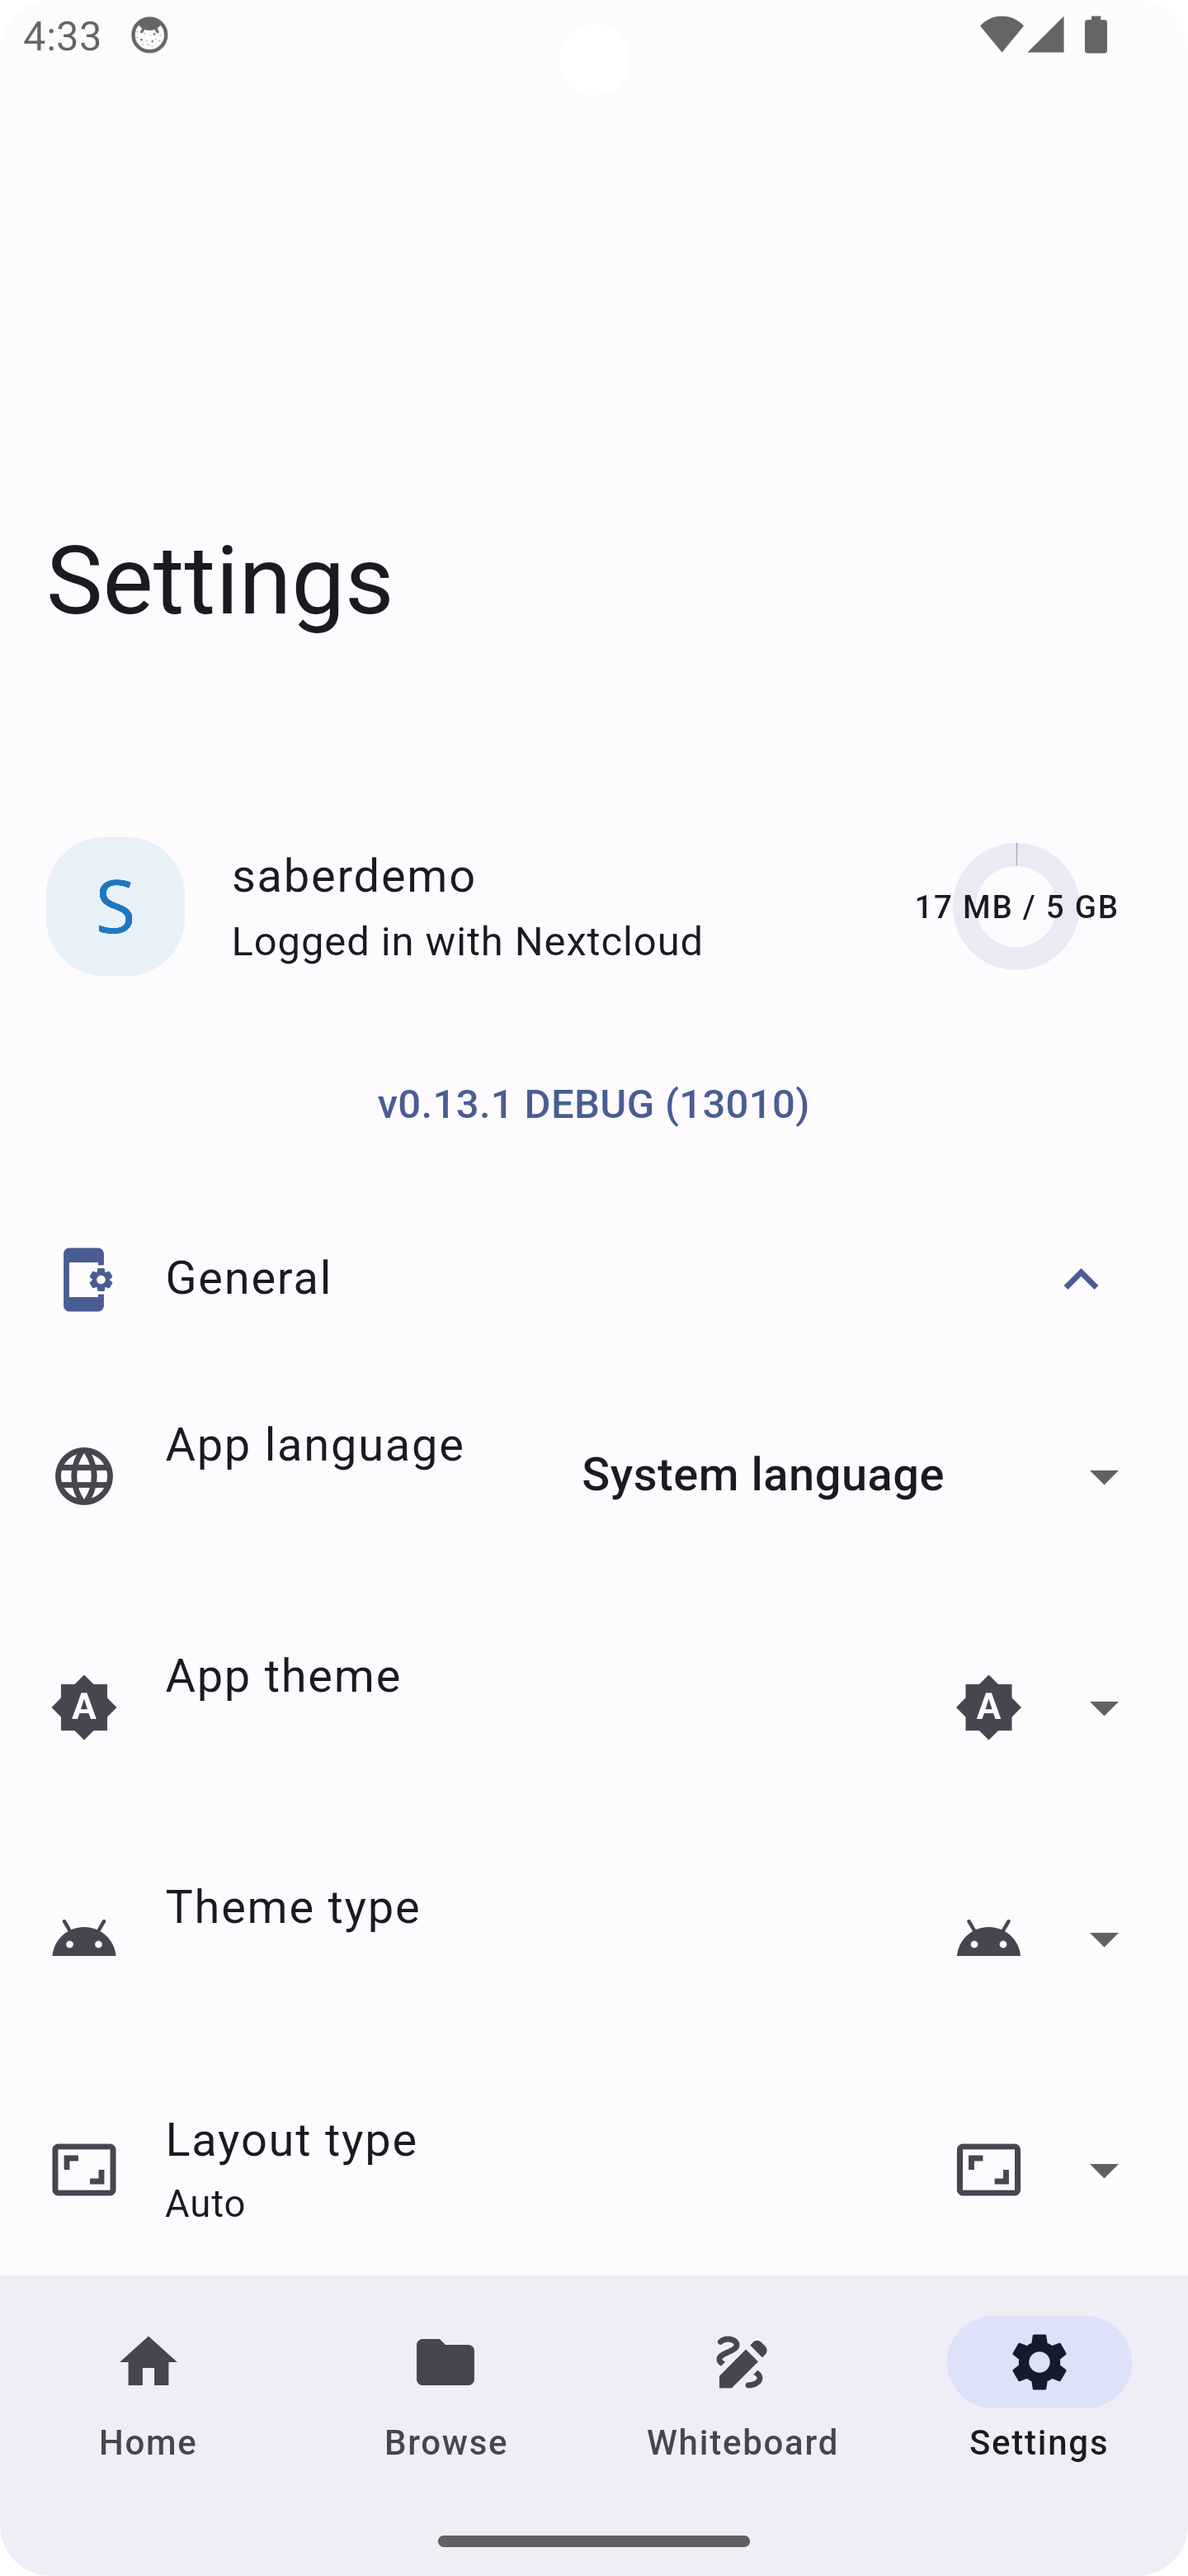
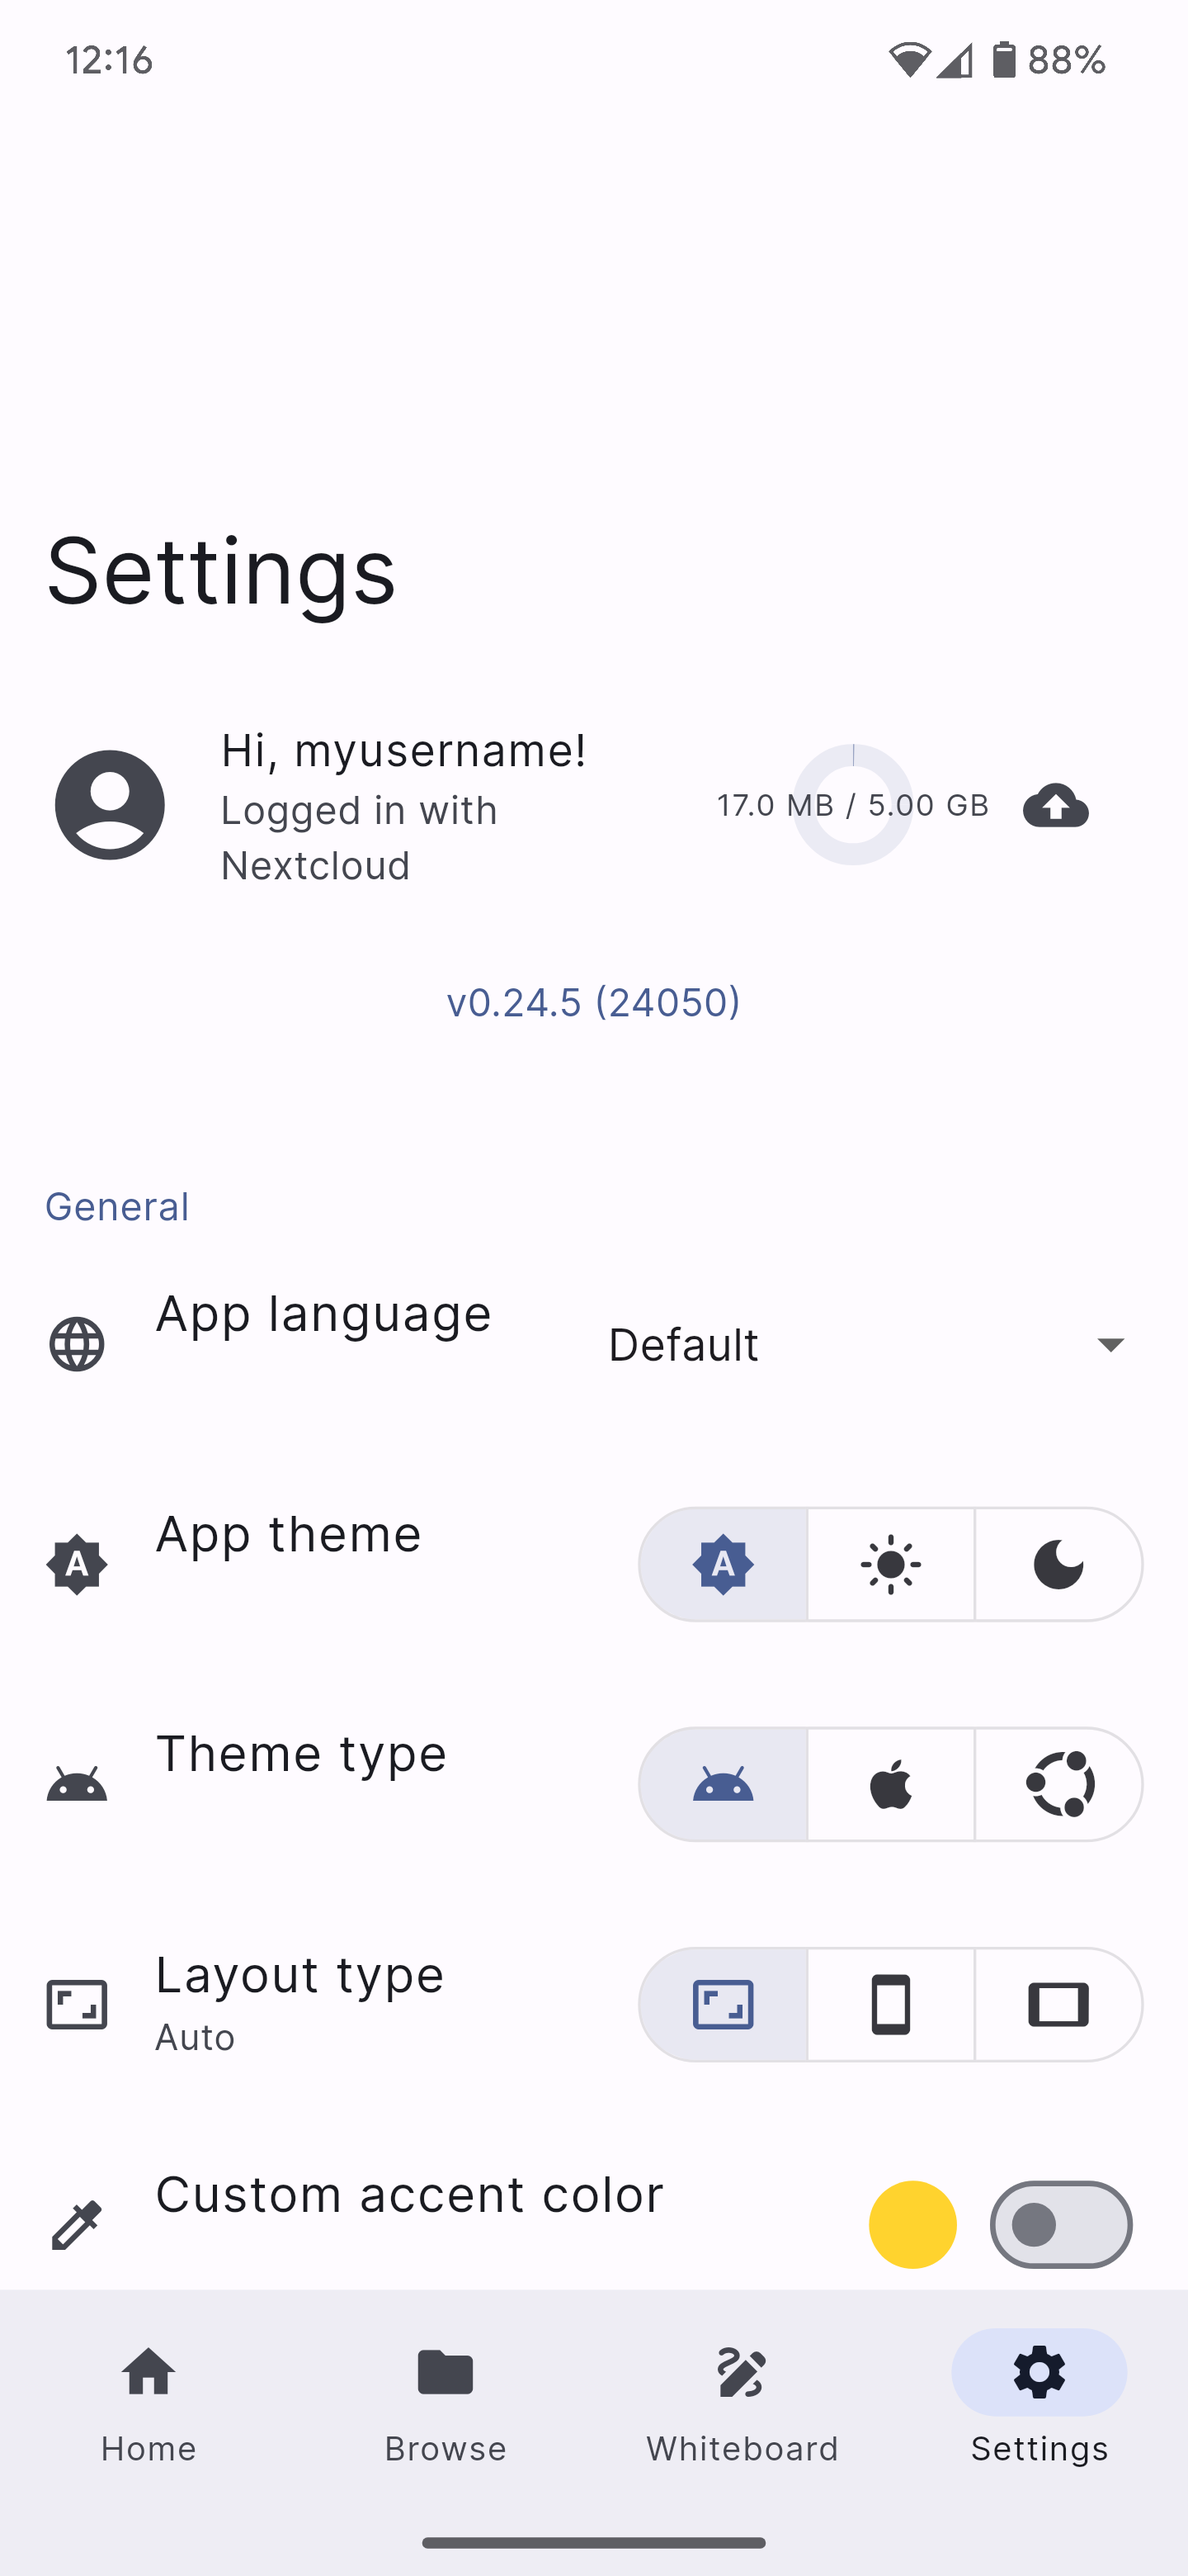
chore: automate settings screenshots

diff --git a/test/screenshot_goldens_test.dart b/test/screenshot_goldens_test.dart
@@ -10,10 +10,12 @@ import 'package:saber/components/canvas/pencil_shader.dart';
 import 'package:saber/components/canvas/shader_image.dart';
 import 'package:saber/components/home/banner_ad_widget.dart';
 import 'package:saber/components/home/syncing_button.dart';
+import 'package:saber/components/settings/app_info.dart';
+import 'package:saber/components/settings/nextcloud_profile.dart';
 import 'package:saber/components/theming/yaru_builder.dart';
 import 'package:saber/data/file_manager/file_manager.dart';
 import 'package:saber/data/flavor_config.dart';
-import 'package:saber/data/prefs.dart';
+import 'package:saber/data/prefs.dart' hide Quota;
 import 'package:saber/i18n/strings.g.dart';
 import 'package:saber/pages/editor/editor.dart';
 import 'package:saber/pages/home/home.dart';
@@ -37,6 +39,19 @@ void main() {
     Prefs.init();
     AdState.init();
     SyncingButton.forceButtonActive = true;
+    AppInfo.showDebugMessage = false;
+
+    Prefs.username.value = 'myusername';
+
+    const quotaUsed = 17 * 1024 * 1024; // 17 MB
+    const quotaTotal = 5 * 1024 * 1024 * 1024; // 5 GB
+    Prefs.lastStorageQuota.value = Quota.fromJson({
+      'free': quotaTotal - quotaUsed,
+      'used': quotaUsed,
+      'total': quotaTotal,
+      'relative': quotaUsed / quotaTotal * 100,
+      'quota': quotaTotal,
+    });
 
     setUpAll(() => Future.wait([
           FileManager.init(),
@@ -105,6 +120,13 @@ void main() {
         forceAppBarLeading: true,
       ),
     );
+    _screenshot(
+      frameColors: homeFrameColors,
+      materialTheme: materialTheme,
+      yaruTheme: yaruTheme,
+      goldenFileName: 'settings',
+      child: const HomePage(subpage: HomePage.settingsSubpage, path: ''),
+    );
   });
 }
 
@@ -119,6 +141,11 @@ void _screenshot({
     for (final device in ScreenshotDevice.values) {
       testWidgets('for ${device.name}', (tester) async {
         debugDisableShadows = false;
+
+        if (goldenFileName == 'settings') {
+          NextcloudProfile.forceLoginStep = LoginStep.done;
+          addTearDown(() => NextcloudProfile.forceLoginStep = null);
+        }
 
         final widget = ScreenshotApp(
           theme: switch (device.platform) {

diff --git a/lib/components/settings/nextcloud_profile.dart b/lib/components/settings/nextcloud_profile.dart
@@ -21,6 +21,10 @@ class NextcloudProfile extends StatefulWidget {
 
   @override
   State<NextcloudProfile> createState() => _NextcloudProfileState();
+
+  /// If non-null, this will be used instead of the actual login state.
+  @visibleForTesting
+  static LoginStep? forceLoginStep;
 }
 
 class _NextcloudProfileState extends State<NextcloudProfile> {
@@ -50,7 +54,8 @@ class _NextcloudProfileState extends State<NextcloudProfile> {
 
   @override
   Widget build(BuildContext context) {
-    final loginStep = NcLoginPage.getCurrentStep();
+    final loginStep =
+        NextcloudProfile.forceLoginStep ?? NcLoginPage.getCurrentStep();
     final heading = switch (loginStep) {
       LoginStep.waitingForPrefs => '',
       LoginStep.nc => t.login.status.loggedOut,
@@ -150,6 +155,9 @@ class _NextcloudProfileState extends State<NextcloudProfile> {
   }
 
   static Future<Quota?> getStorageQuota() async {
+    if (NextcloudProfile.forceLoginStep != null)
+      return Prefs.lastStorageQuota.value;
+
     final client = NextcloudClientExtension.withSavedDetails();
     if (client == null) return null;
 

diff --git a/lib/components/settings/app_info.dart b/lib/components/settings/app_info.dart
@@ -22,9 +22,12 @@ class AppInfo extends StatelessWidget {
         'v$buildName',
         if (FlavorConfig.flavor.isNotEmpty) FlavorConfig.flavor,
         if (FlavorConfig.dirty) t.appInfo.dirty,
-        if (kDebugMode) t.appInfo.debug,
+        if (kDebugMode && showDebugMessage) t.appInfo.debug,
         '($buildNumber)',
       ].join(' ');
+
+  @visibleForTesting
+  static bool showDebugMessage = true;
 
   @override
   Widget build(BuildContext context) {
